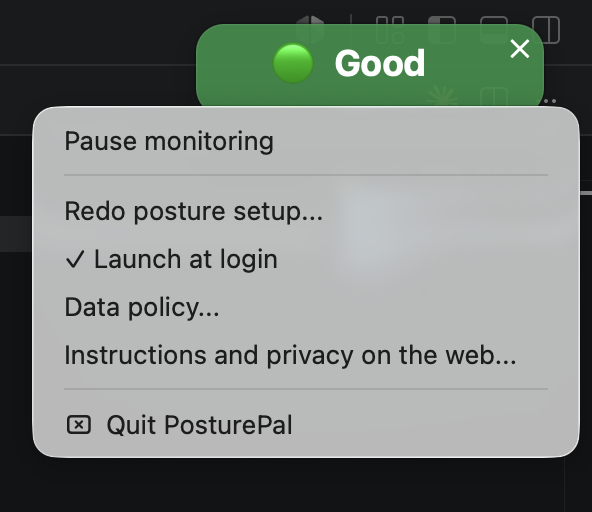
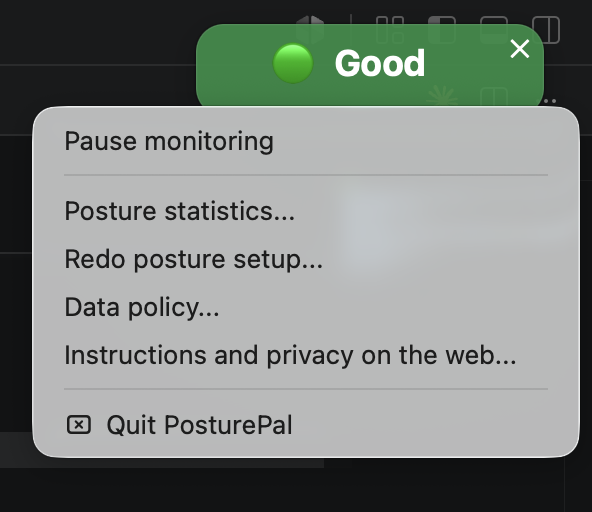
Remove launch at login, document posture statistics
The feature was removed from the app, so the page should not describe it -
and the menu screenshot showed it, which is worse than the table row
because it looks like proof. Both replaced with Posture statistics, which
the app now has.

The screenshot is re-captured from the running app rather than edited.

diff --git a/index.html b/index.html
@@ -176,7 +176,7 @@ anywhere you like; the ✕ quits the app.</p>
 <p>Right-click the pill for everything else.</p>
 
 <figure>
-  <img src="img/menu.png" alt="The PosturePal menu, showing Pause monitoring, Redo posture setup, Launch at login, Data policy and Quit">
+  <img src="img/menu.png" alt="The PosturePal menu, showing Pause monitoring, Posture statistics, Redo posture setup, Data policy, Instructions and privacy on the web, and Quit PosturePal">
   <figcaption>The same menu also appears under the menu-bar icon, when macOS gives it room.</figcaption>
 </figure>
 
@@ -188,8 +188,9 @@ anywhere you like; the ✕ quits the app.</p>
   <tr><th>Redo posture setup</th>
       <td>Runs calibration again — worth doing if you change desk, chair or laptop
       position.</td></tr>
-  <tr><th>Launch at login</th>
-      <td>Starts PosturePal automatically when you log in.</td></tr>
+  <tr><th>Posture statistics</th>
+      <td>How you actually sat — good against bad time day by day, and which
+      kinds of bad posture you slip into most.</td></tr>
   <tr><th>Data policy</th>
       <td>A summary of what is on this page under Privacy.</td></tr>
 </table>
